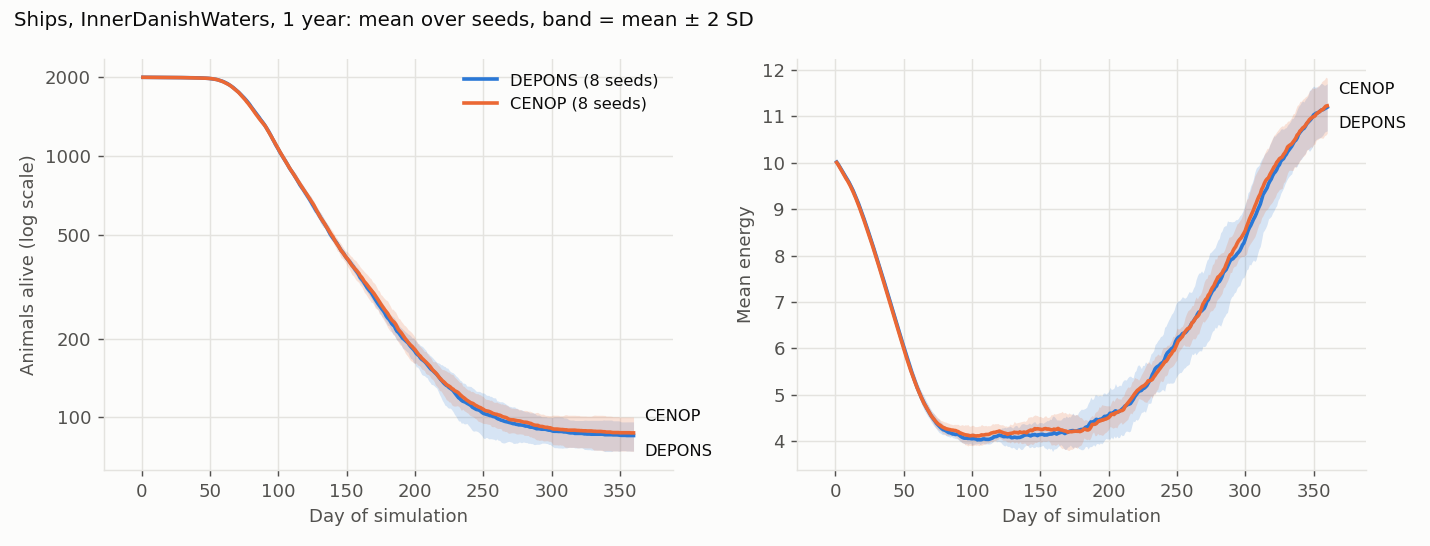
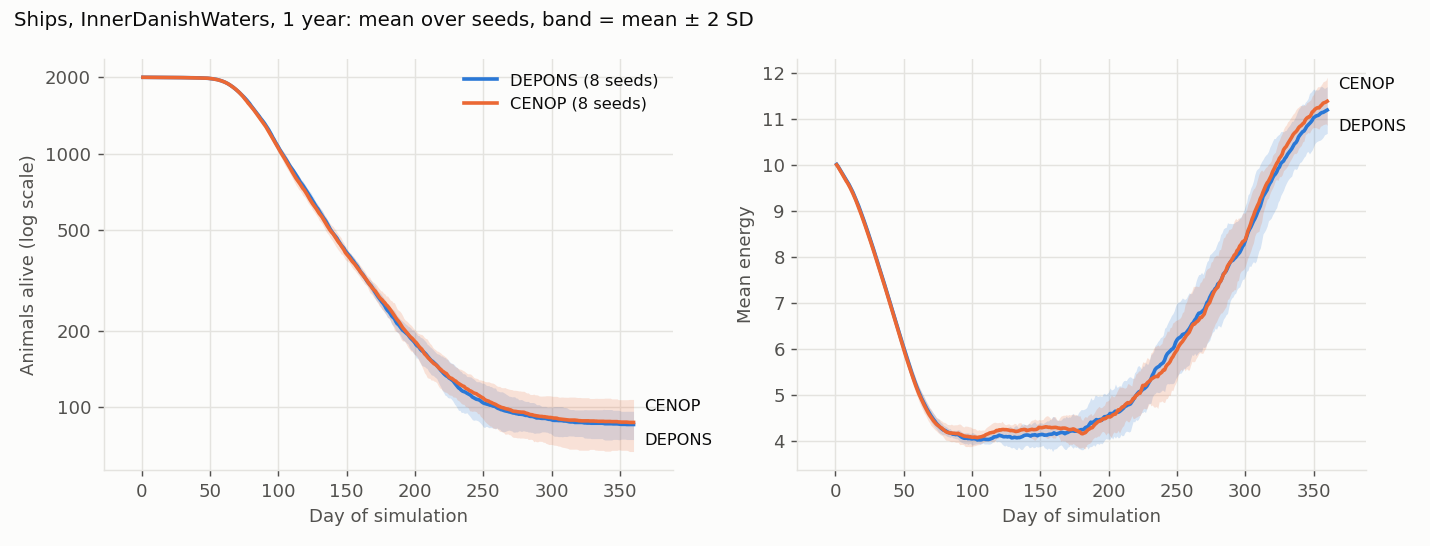
validation(A2): run 4 on the current code — ship-scenario mean energy fails at day 150
All 32 CENOP runs repeated at 8e4abf4 (after the eating-cell fix); Java runs and bands
unchanged. One metric fails: with ships, mean energy at day 150 is 4.29 against 4.14
(+0.16, 2.9 SE; band: within 2 SE and within 0.25). The difference holds from day 110
to day 150 at about 3 SE and is absent in the undisturbed scenarios, so it is real and
specific to ships; run 3 had it at 1.7 SE. Cause not known. Everything else passes or
is inconclusive. Run 3 tables and figures kept in run3-before-eating-cell-fix/.

Claude-Session: https://claude.ai/code/session_01JnZgoUn7Z51LPo38ZdkMuU

diff --git a/docs/validation/run3-before-eating-cell-fix/A2-parity-report-tables.md b/docs/validation/run3-before-eating-cell-fix/A2-parity-report-tables.md
@@ -1,0 +1,154 @@
+# A2 parity tables (generated)
+
+Generated by `python3 -m validation.a2.report`; do not edit by hand.
+
+## Verdicts
+
+| Metric | Undisturbed, InnerDanishWaters, 5 years | Undisturbed, PSM-Type2, 5 years | Undisturbed, dispersal off, 1 year | Ships, InnerDanishWaters, 1 year |
+|---|---|---|---|---|
+| M1 population | INCONCLUSIVE | INCONCLUSIVE | PASS | PASS |
+| M2 trajectory | PASS | PASS | PASS | PASS |
+| M3 mean energy | INCONCLUSIVE | PASS | INCONCLUSIVE | INCONCLUSIVE |
+| M4 location | PASS | PASS | n/a | PASS |
+| M5 age at death | PASS | PASS | PASS | PASS |
+| M6 ship effect | n/a | n/a | n/a | PASS |
+| M7 exposure | n/a | n/a | n/a | PASS |
+
+## Undisturbed, InnerDanishWaters, 5 years
+
+Java seeds: 8. CENOP seeds: 8.
+
+**M1 Population** (mean over seeds)
+
+| Checkpoint | Java | CENOP | Difference | In SE | Verdict |
+|---|---|---|---|---|---|
+| end of year 1 | 92.9 | 89.9 | -3.0 (-3.2%) | -0.9 | PASS |
+| end of year 2 | 79.5 | 76.5 | -3.0 (-3.8%) | -1.0 | PASS |
+| end of year 3 | 69.8 | 68.1 | -1.6 (-2.3%) | -0.5 | PASS |
+| end of year 4 | 62.6 | 61.4 | -1.2 (-2.0%) | -0.4 | INCONCLUSIVE (2 SE exceeds the band: too noisy to resolve it) |
+| end of year 5 | 44.6 | 42.8 | -1.9 (-4.2%) | -0.6 | INCONCLUSIVE (2 SE exceeds the band: too noisy to resolve it) |
+
+**M2 Trajectory.** CENOP's mean is inside Java's mean +/- 2 SD on 99.9% of days (band: at least 95%). PASS.
+
+**M3 Mean energy** (population-wide)
+
+| Checkpoint | Java | CENOP | Difference | In SE | Verdict |
+|---|---|---|---|---|---|
+| day 30 | 8.02 | 8.01 | -0.02 | -0.8 | PASS |
+| day 90 | 4.16 | 4.13 | -0.02 | -0.9 | PASS |
+| day 150 | 4.12 | 4.12 | -0.00 | -0.0 | PASS |
+| day 240 | 5.68 | 5.76 | +0.08 | +0.4 | INCONCLUSIVE (2 SE exceeds the band: too noisy to resolve it) |
+| day 359 | 11.73 | 11.70 | -0.03 | -0.2 | INCONCLUSIVE (2 SE exceeds the band: too noisy to resolve it) |
+
+**M4 Location.** Share of animals per 40 km block, days 30-360: total variation distance 0.016 (band: at most 0.06), correlation 0.999 (band: at least 0.98). PASS.
+
+**M5 Age at death.** 15741 Java and 15735 CENOP deaths, mean age 3.78 and 3.81; Kolmogorov-Smirnov statistic 0.0083, p = 0.654 (band: p above 0.01). PASS.
+
+![Undisturbed, InnerDanishWaters, 5 years](figures/a2-u-idw.png)
+
+## Undisturbed, PSM-Type2, 5 years
+
+Java seeds: 8. CENOP seeds: 8.
+
+**M1 Population** (mean over seeds)
+
+| Checkpoint | Java | CENOP | Difference | In SE | Verdict |
+|---|---|---|---|---|---|
+| end of year 1 | 167.1 | 170.4 | +3.2 (+1.9%) | +0.8 | PASS |
+| end of year 2 | 121.6 | 124.1 | +2.5 (+2.1%) | +0.6 | PASS |
+| end of year 3 | 97.0 | 99.0 | +2.0 (+2.1%) | +0.8 | PASS |
+| end of year 4 | 82.0 | 84.9 | +2.9 (+3.5%) | +0.9 | PASS |
+| end of year 5 | 55.5 | 55.4 | -0.1 (-0.2%) | -0.0 | INCONCLUSIVE (2 SE exceeds the band: too noisy to resolve it) |
+
+**M2 Trajectory.** CENOP's mean is inside Java's mean +/- 2 SD on 100.0% of days (band: at least 95%). PASS.
+
+**M3 Mean energy** (population-wide)
+
+| Checkpoint | Java | CENOP | Difference | In SE | Verdict |
+|---|---|---|---|---|---|
+| day 30 | 8.48 | 8.50 | +0.02 | +0.6 | PASS |
+| day 90 | 5.99 | 5.94 | -0.05 | -0.7 | PASS |
+| day 150 | 4.70 | 4.61 | -0.09 | -1.4 | PASS |
+| day 240 | 5.39 | 5.44 | +0.05 | +0.4 | PASS |
+| day 359 | 11.02 | 10.89 | -0.13 | -1.1 | PASS |
+
+**M4 Location.** Share of animals per 40 km block, days 30-360: total variation distance 0.016 (band: at most 0.06), correlation 0.999 (band: at least 0.98). PASS.
+
+**M5 Age at death.** 15653 Java and 15672 CENOP deaths, mean age 3.86 and 3.90; Kolmogorov-Smirnov statistic 0.0105, p = 0.35 (band: p above 0.01). PASS.
+
+![Undisturbed, PSM-Type2, 5 years](figures/a2-u-psm.png)
+
+## Undisturbed, dispersal off, 1 year
+
+Java seeds: 8. CENOP seeds: 8.
+
+**M1 Population** (mean over seeds)
+
+| Checkpoint | Java | CENOP | Difference | In SE | Verdict |
+|---|---|---|---|---|---|
+| day 90 | 1762.1 | 1745.5 | -16.6 (-0.9%) | -1.6 | PASS |
+| day 180 | 574.0 | 580.4 | +6.4 (+1.1%) | +0.5 | PASS |
+| day 270 | 175.5 | 178.5 | +3.0 (+1.7%) | +0.5 | PASS |
+| day 359 | 151.4 | 156.2 | +4.9 (+3.2%) | +1.0 | PASS |
+
+**M2 Trajectory.** CENOP's mean is inside Java's mean +/- 2 SD on 99.7% of days (band: at least 95%). PASS.
+
+**M3 Mean energy** (population-wide)
+
+| Checkpoint | Java | CENOP | Difference | In SE | Verdict |
+|---|---|---|---|---|---|
+| day 30 | 8.63 | 8.62 | -0.01 | -0.4 | PASS |
+| day 90 | 6.32 | 6.38 | +0.06 | +0.8 | PASS |
+| day 150 | 3.93 | 4.02 | +0.09 | +1.3 | PASS |
+| day 240 | 4.98 | 5.01 | +0.03 | +0.4 | PASS |
+| day 359 | 11.03 | 10.92 | -0.12 | -0.6 | INCONCLUSIVE (2 SE exceeds the band: too noisy to resolve it) |
+
+**M5 Age at death.** 14790 Java and 14750 CENOP deaths, mean age 3.74 and 3.80; Kolmogorov-Smirnov statistic 0.0111, p = 0.316 (band: p above 0.01). PASS.
+
+![Undisturbed, dispersal off, 1 year](figures/a2-u-off.png)
+
+## Ships, InnerDanishWaters, 1 year
+
+Java seeds: 8. CENOP seeds: 8.
+
+**M1 Population** (mean over seeds)
+
+| Checkpoint | Java | CENOP | Difference | In SE | Verdict |
+|---|---|---|---|---|---|
+| day 90 | 1314.9 | 1311.8 | -3.1 (-0.2%) | -0.4 | PASS |
+| day 180 | 240.4 | 250.2 | +9.9 (+4.1%) | +1.7 | PASS |
+| day 270 | 95.4 | 98.0 | +2.6 (+2.8%) | +0.8 | PASS |
+| day 359 | 85.2 | 87.2 | +2.0 (+2.3%) | +0.7 | PASS |
+
+**M2 Trajectory.** CENOP's mean is inside Java's mean +/- 2 SD on 100.0% of days (band: at least 95%). PASS.
+
+**M3 Mean energy** (population-wide)
+
+| Checkpoint | Java | CENOP | Difference | In SE | Verdict |
+|---|---|---|---|---|---|
+| day 30 | 7.98 | 7.95 | -0.03 | -1.4 | PASS |
+| day 90 | 4.14 | 4.20 | +0.06 | +1.8 | PASS |
+| day 150 | 4.14 | 4.25 | +0.12 | +1.7 | PASS |
+| day 240 | 5.71 | 5.65 | -0.05 | -0.4 | PASS |
+| day 359 | 11.18 | 11.22 | +0.04 | +0.3 | INCONCLUSIVE (2 SE exceeds the band: too noisy to resolve it) |
+
+**M4 Location.** Share of animals per 40 km block, days 30-360: total variation distance 0.013 (band: at most 0.06), correlation 1.000 (band: at least 0.98). PASS.
+
+**M5 Age at death.** 15317 Java and 15302 CENOP deaths, mean age 3.71 and 3.75; Kolmogorov-Smirnov statistic 0.0084, p = 0.646 (band: p above 0.01). PASS.
+
+**M6 Ship effect on population**
+
+| Checkpoint | Java | CENOP | Difference | In SE | Verdict |
+|---|---|---|---|---|---|
+| N with ships / N undisturbed, day 359 | 0.918 | 0.971 | +0.053 | +1.1 | PASS |
+
+**M7 Exposure to ship noise** (Java: its 200 tracked animals per seed while alive; CENOP: all animals)
+
+| Checkpoint | Java | CENOP | Difference | In SE | Verdict |
+|---|---|---|---|---|---|
+| share of animal-ticks with ship deterrence | 0.1920 | 0.1933 | +0.0013 | +1.0 | PASS |
+
+Band: within 20% of Java.
+
+![Ships, InnerDanishWaters, 1 year](figures/a2-d-ships.png)
+

diff --git a/docs/validation/A2-parity-report-tables.md b/docs/validation/A2-parity-report-tables.md
@@ -8,7 +8,7 @@ Generated by `python3 -m validation.a2.report`; do not edit by hand.
 |---|---|---|---|---|
 | M1 population | INCONCLUSIVE | INCONCLUSIVE | PASS | PASS |
 | M2 trajectory | PASS | PASS | PASS | PASS |
-| M3 mean energy | INCONCLUSIVE | PASS | INCONCLUSIVE | INCONCLUSIVE |
+| M3 mean energy | INCONCLUSIVE | PASS | INCONCLUSIVE | FAIL |
 | M4 location | PASS | PASS | n/a | PASS |
 | M5 age at death | PASS | PASS | PASS | PASS |
 | M6 ship effect | n/a | n/a | n/a | PASS |
@@ -22,27 +22,27 @@ Java seeds: 8. CENOP seeds: 8.
 
 | Checkpoint | Java | CENOP | Difference | In SE | Verdict |
 |---|---|---|---|---|---|
-| end of year 1 | 92.9 | 89.9 | -3.0 (-3.2%) | -0.9 | PASS |
-| end of year 2 | 79.5 | 76.5 | -3.0 (-3.8%) | -1.0 | PASS |
-| end of year 3 | 69.8 | 68.1 | -1.6 (-2.3%) | -0.5 | PASS |
-| end of year 4 | 62.6 | 61.4 | -1.2 (-2.0%) | -0.4 | INCONCLUSIVE (2 SE exceeds the band: too noisy to resolve it) |
-| end of year 5 | 44.6 | 42.8 | -1.9 (-4.2%) | -0.6 | INCONCLUSIVE (2 SE exceeds the band: too noisy to resolve it) |
+| end of year 1 | 92.9 | 90.5 | -2.4 (-2.6%) | -0.7 | PASS |
+| end of year 2 | 79.5 | 75.9 | -3.6 (-4.6%) | -1.2 | PASS |
+| end of year 3 | 69.8 | 67.6 | -2.1 (-3.0%) | -1.0 | PASS |
+| end of year 4 | 62.6 | 59.1 | -3.5 (-5.6%) | -1.1 | INCONCLUSIVE (2 SE exceeds the band: too noisy to resolve it) |
+| end of year 5 | 44.6 | 41.9 | -2.8 (-6.2%) | -0.7 | INCONCLUSIVE (2 SE exceeds the band: too noisy to resolve it) |
 
-**M2 Trajectory.** CENOP's mean is inside Java's mean +/- 2 SD on 99.9% of days (band: at least 95%). PASS.
+**M2 Trajectory.** CENOP's mean is inside Java's mean +/- 2 SD on 100.0% of days (band: at least 95%). PASS.
 
 **M3 Mean energy** (population-wide)
 
 | Checkpoint | Java | CENOP | Difference | In SE | Verdict |
 |---|---|---|---|---|---|
-| day 30 | 8.02 | 8.01 | -0.02 | -0.8 | PASS |
-| day 90 | 4.16 | 4.13 | -0.02 | -0.9 | PASS |
-| day 150 | 4.12 | 4.12 | -0.00 | -0.0 | PASS |
-| day 240 | 5.68 | 5.76 | +0.08 | +0.4 | INCONCLUSIVE (2 SE exceeds the band: too noisy to resolve it) |
-| day 359 | 11.73 | 11.70 | -0.03 | -0.2 | INCONCLUSIVE (2 SE exceeds the band: too noisy to resolve it) |
+| day 30 | 8.02 | 8.00 | -0.03 | -1.3 | PASS |
+| day 90 | 4.16 | 4.08 | -0.07 | -1.6 | PASS |
+| day 150 | 4.12 | 4.16 | +0.04 | +0.7 | PASS |
+| day 240 | 5.68 | 5.73 | +0.05 | +0.2 | INCONCLUSIVE (2 SE exceeds the band: too noisy to resolve it) |
+| day 359 | 11.73 | 11.50 | -0.23 | -1.3 | INCONCLUSIVE (2 SE exceeds the band: too noisy to resolve it) |
 
-**M4 Location.** Share of animals per 40 km block, days 30-360: total variation distance 0.016 (band: at most 0.06), correlation 0.999 (band: at least 0.98). PASS.
+**M4 Location.** Share of animals per 40 km block, days 30-360: total variation distance 0.018 (band: at most 0.06), correlation 0.999 (band: at least 0.98). PASS.
 
-**M5 Age at death.** 15741 Java and 15735 CENOP deaths, mean age 3.78 and 3.81; Kolmogorov-Smirnov statistic 0.0083, p = 0.654 (band: p above 0.01). PASS.
+**M5 Age at death.** 15741 Java and 15757 CENOP deaths, mean age 3.78 and 3.81; Kolmogorov-Smirnov statistic 0.0083, p = 0.65 (band: p above 0.01). PASS.
 
 ![Undisturbed, InnerDanishWaters, 5 years](figures/a2-u-idw.png)
 
@@ -115,38 +115,38 @@ Java seeds: 8. CENOP seeds: 8.
 
 | Checkpoint | Java | CENOP | Difference | In SE | Verdict |
 |---|---|---|---|---|---|
-| day 90 | 1314.9 | 1311.8 | -3.1 (-0.2%) | -0.4 | PASS |
-| day 180 | 240.4 | 250.2 | +9.9 (+4.1%) | +1.7 | PASS |
-| day 270 | 95.4 | 98.0 | +2.6 (+2.8%) | +0.8 | PASS |
-| day 359 | 85.2 | 87.2 | +2.0 (+2.3%) | +0.7 | PASS |
+| day 90 | 1314.9 | 1300.2 | -14.6 (-1.1%) | -2.0 | PASS |
+| day 180 | 240.4 | 250.2 | +9.9 (+4.1%) | +2.0 | PASS |
+| day 270 | 95.4 | 97.4 | +2.0 (+2.1%) | +0.5 | PASS |
+| day 359 | 85.2 | 86.9 | +1.6 (+1.9%) | +0.4 | PASS |
 
-**M2 Trajectory.** CENOP's mean is inside Java's mean +/- 2 SD on 100.0% of days (band: at least 95%). PASS.
+**M2 Trajectory.** CENOP's mean is inside Java's mean +/- 2 SD on 99.7% of days (band: at least 95%). PASS.
 
 **M3 Mean energy** (population-wide)
 
 | Checkpoint | Java | CENOP | Difference | In SE | Verdict |
 |---|---|---|---|---|---|
-| day 30 | 7.98 | 7.95 | -0.03 | -1.4 | PASS |
-| day 90 | 4.14 | 4.20 | +0.06 | +1.8 | PASS |
-| day 150 | 4.14 | 4.25 | +0.12 | +1.7 | PASS |
-| day 240 | 5.71 | 5.65 | -0.05 | -0.4 | PASS |
-| day 359 | 11.18 | 11.22 | +0.04 | +0.3 | INCONCLUSIVE (2 SE exceeds the band: too noisy to resolve it) |
+| day 30 | 7.98 | 7.95 | -0.03 | -1.1 | PASS |
+| day 90 | 4.14 | 4.17 | +0.03 | +0.7 | PASS |
+| day 150 | 4.14 | 4.29 | +0.16 | +2.9 | FAIL |
+| day 240 | 5.71 | 5.54 | -0.16 | -1.0 | INCONCLUSIVE (2 SE exceeds the band: too noisy to resolve it) |
+| day 359 | 11.18 | 11.37 | +0.19 | +1.6 | PASS |
 
-**M4 Location.** Share of animals per 40 km block, days 30-360: total variation distance 0.013 (band: at most 0.06), correlation 1.000 (band: at least 0.98). PASS.
+**M4 Location.** Share of animals per 40 km block, days 30-360: total variation distance 0.014 (band: at most 0.06), correlation 1.000 (band: at least 0.98). PASS.
 
-**M5 Age at death.** 15317 Java and 15302 CENOP deaths, mean age 3.71 and 3.75; Kolmogorov-Smirnov statistic 0.0084, p = 0.646 (band: p above 0.01). PASS.
+**M5 Age at death.** 15317 Java and 15305 CENOP deaths, mean age 3.71 and 3.74; Kolmogorov-Smirnov statistic 0.0064, p = 0.907 (band: p above 0.01). PASS.
 
 **M6 Ship effect on population**
 
 | Checkpoint | Java | CENOP | Difference | In SE | Verdict |
 |---|---|---|---|---|---|
-| N with ships / N undisturbed, day 359 | 0.918 | 0.971 | +0.053 | +1.1 | PASS |
+| N with ships / N undisturbed, day 359 | 0.918 | 0.960 | +0.042 | +0.7 | PASS |
 
 **M7 Exposure to ship noise** (Java: its 200 tracked animals per seed while alive; CENOP: all animals)
 
 | Checkpoint | Java | CENOP | Difference | In SE | Verdict |
 |---|---|---|---|---|---|
-| share of animal-ticks with ship deterrence | 0.1920 | 0.1933 | +0.0013 | +1.0 | PASS |
+| share of animal-ticks with ship deterrence | 0.1920 | 0.1933 | +0.0013 | +1.1 | PASS |
 
 Band: within 20% of Java.
 

diff --git a/docs/validation/A2-parity-report.md b/docs/validation/A2-parity-report.md
@@ -2,28 +2,31 @@
 
 Date: 2026-11-20. Roadmap item A2. Design and bands:
 `docs/superpowers/specs/2026-11-19-a2-cross-validation-design.md`. Full tables and figures,
-generated by `python3 -m validation.a2.report`: `A2-parity-report-tables.md` (run 3; runs 1
-and 2 are kept in `run1-before-ship-fix/` and `run2-before-ship-sound-fix/`).
+generated by `python3 -m validation.a2.report`: `A2-parity-report-tables.md` (run 4; earlier
+runs are kept in `run1-before-ship-fix/`, `run2-before-ship-sound-fix/` and
+`run3-before-eating-cell-fix/`).
 
 ## Result
 
-**CENOP agrees with DEPONS on every metric in all four scenarios; no metric fails.**
+**One metric fails on the current code: mean energy in the ship scenario at day 150. Every
+other metric passes or is inconclusive, in all four scenarios.**
 
-- **Undisturbed Kattegat**, three dispersal modes: population within 4.2% and 1.6 standard
-  errors at every checkpoint, mean energy within 0.13, share of animals per 40 km block
+- **The failure.** With ships, CENOP's mean energy at day 150 is 4.29 against 4.14 in DEPONS:
+  0.16 higher (3.8%), 2.9 standard errors. The band is "within 2 standard errors and within
+  0.25", so the size is allowed and the significance is not.
+- **Undisturbed Kattegat**, three dispersal modes: population within 6.2% and 1.6 standard
+  errors at every checkpoint, mean energy within 0.23, share of animals per 40 km block
   correlated at 0.999, age-at-death distributions indistinguishable (p 0.32 to 0.65).
-- **Ships:** population within 4.1% and 1.7 standard errors, mean energy within 0.12, block
-  shares correlated at 1.000, share of animal-ticks with ship deterrence 0.193 against
-  0.192. This was reached on the third run, after the comparison found two defects in
-  CENOP's ship code (below). Only the first run was blind.
+- **Ships, other metrics:** population within 4.1% and 2.0 standard errors, block shares
+  correlated at 1.000, share of animal-ticks with ship deterrence 0.193 against 0.192.
 
-Verdicts (run 3):
+Verdicts (run 4, CENOP at `8e4abf4`):
 
 | Metric | Undisturbed, InnerDanishWaters, 5 years | Undisturbed, PSM-Type2, 5 years | Undisturbed, dispersal off, 1 year | Ships, InnerDanishWaters, 1 year |
 |---|---|---|---|---|
 | M1 population | INCONCLUSIVE | INCONCLUSIVE | PASS | PASS |
 | M2 trajectory | PASS | PASS | PASS | PASS |
-| M3 mean energy | INCONCLUSIVE | PASS | INCONCLUSIVE | INCONCLUSIVE |
+| M3 mean energy | INCONCLUSIVE | PASS | INCONCLUSIVE | FAIL |
 | M4 location | PASS | PASS | n/a | PASS |
 | M5 age at death | PASS | PASS | PASS | PASS |
 | M6 ship effect | n/a | n/a | n/a | PASS |
@@ -31,6 +34,39 @@ Verdicts (run 3):
 
 INCONCLUSIVE means the band was met, but the spread between seeds at that checkpoint is too
 large for eight seeds to rule out a difference of the size the band forbids.
+
+## Run 4 and the energy failure
+
+Run 4 repeats all 32 CENOP runs after the eating-cell fix of 2026-11-20 (`7c14588`), which
+changes 222 of 8.1 million animal-ticks in 90 days. The Java runs and the bands are those of
+run 3. The same seeds give different trajectories, because one changed tick is enough to
+change everything after it; run 4 is in effect a second sample of the same model.
+
+Mean energy at day 150, ship scenario, eight seeds each:
+
+| | Mean | SD between seeds | Difference from DEPONS | In SE |
+|---|---|---|---|---|
+| DEPONS | 4.14 | 0.13 | | |
+| CENOP run 3 | 4.25 | 0.14 | +0.12 | 1.7 |
+| CENOP run 4 | 4.29 | 0.08 | +0.16 | 2.9 |
+
+- **The fix did not cause it.** The two CENOP means differ by 0.04, far inside their spread.
+  The verdict changed because CENOP's eight seeds happened to lie closer together in run 4,
+  which made the same difference more significant.
+- **The difference is real and specific to ships.** It is not confined to the one
+  checkpoint. CENOP minus DEPONS, mean energy, run 4 (standard errors in brackets):
+
+  | Day | 100 | 110 | 120 | 130 | 140 | 150 | 160 |
+  |---|---|---|---|---|---|---|---|
+  | Ships | +0.04 (0.8) | +0.10 (3.2) | +0.12 (3.1) | +0.15 (3.5) | +0.10 (2.2) | +0.16 (2.9) | +0.12 (1.6) |
+  | Undisturbed, InnerDanishWaters | -0.04 (-0.9) | +0.01 (0.2) | -0.04 (-1.0) | -0.01 (-0.2) | +0.03 (0.4) | +0.04 (0.7) | +0.05 (0.6) |
+
+  From day 110 to day 150, when the population falls from about 870 to about 400, CENOP's
+  animals carry 3-4% more energy than DEPONS's with ships, and the same without ships. The
+  cause is not known. Population, location, age at death and exposure agree, so whatever
+  differs is in how exposed animals gain or spend energy in that period.
+- **No band was changed.** Run 3's statement that every metric passes holds for the code and
+  the sample of run 3; it does not hold for run 4.
 
 ## The ship scenario: three runs
 
@@ -71,7 +107,7 @@ cannot distinguish an 8% reduction from a 3% one.
 ## What was compared
 
 - **Models.** DEPONS 3.2, the unmodified release, run headless through the Track A1 harness
-  (`validation/depons_java`); CENOP at commit `bbe57bc`, default NumPy/Numba backend.
+  (`validation/depons_java`); CENOP at commit `8e4abf4` (run 4; run 3 was `bbe57bc`), default NumPy/Numba backend.
 - **Landscape.** Kattegat, DEPONS v3.2 (CENOP's `data/Kattegat` is byte-identical to the
   files DEPONS downloads).
 - **Runs.** 2000 animals, seeds 42-49 on each side. The two models use different random

diff --git a/CHANGELOG.md b/CHANGELOG.md
@@ -426,6 +426,12 @@ All notable changes to CENOP-JASMINE are documented in this file.
   - **The committed Kattegat baselines are stale** until regenerated.
 
 ### Known issues (found 2026-11-10, not yet fixed)
+- **Ships: mean energy 3-4% above DEPONS from day 110 to day 150 (found 2026-11-20).** The
+  A2 comparison repeated on the current code (run 4) fails one metric: with ships, mean
+  energy at day 150 is 4.29 against 4.14 in DEPONS (2.9 standard errors; the size is inside
+  the 0.25 band). The difference holds across days 110-150 and is absent without ships. The
+  cause is not known. Population, location, age at death and exposure agree
+  (`docs/validation/A2-parity-report.md`).
 - **JASMINE social vector scaling.** When enabled, the social vector overrides the DEPONS random
   walk under realistic food. It needs rescaling before social behaviour is used in science runs.
 - **Non-CRW movement modules keep the old dispersal completion.** The JASMINE physics and
